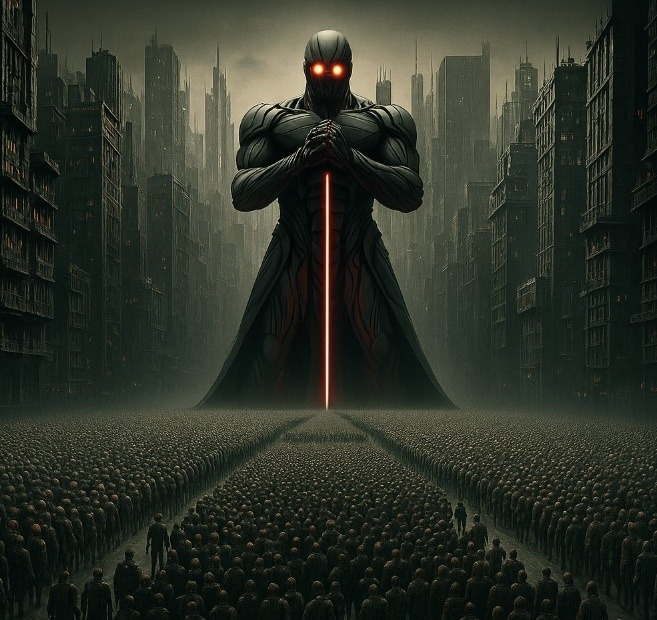
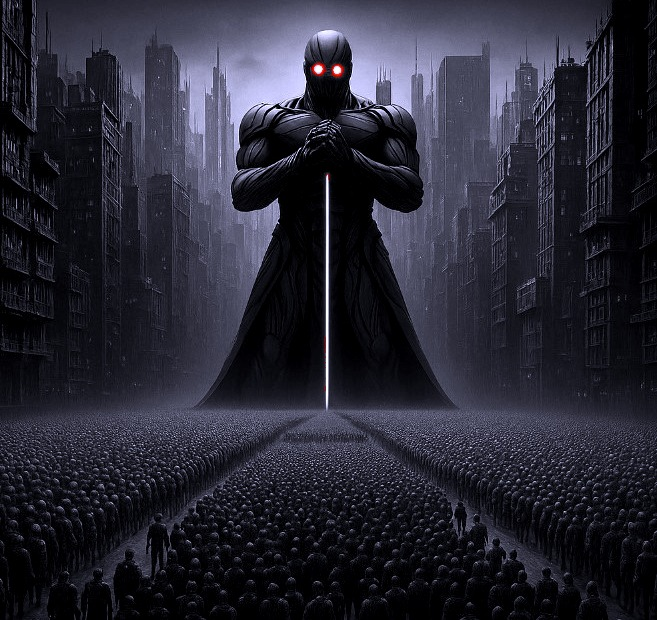
Hero : proposition 1 — monochrome bleu-froid + yeux rouges conservés
- Image traitée : désaturation totale teinte froide, seuls les yeux rouges
  et l'épée restent en couleur (masque sur pixels R dominant)
  Contraste +1.4 pour marquer le relief et la foule au premier plan
- background-position: center 50% pour centrer sur entité + foule visible

diff --git a/index.html b/index.html
@@ -19,7 +19,7 @@
       padding: 6rem 2rem 5rem;
       background-image: url('assets/img/leviathan.jpg');
       background-size: cover;
-      background-position: center 25%;
+      background-position: center 50%;
       background-repeat: no-repeat;
     }
 